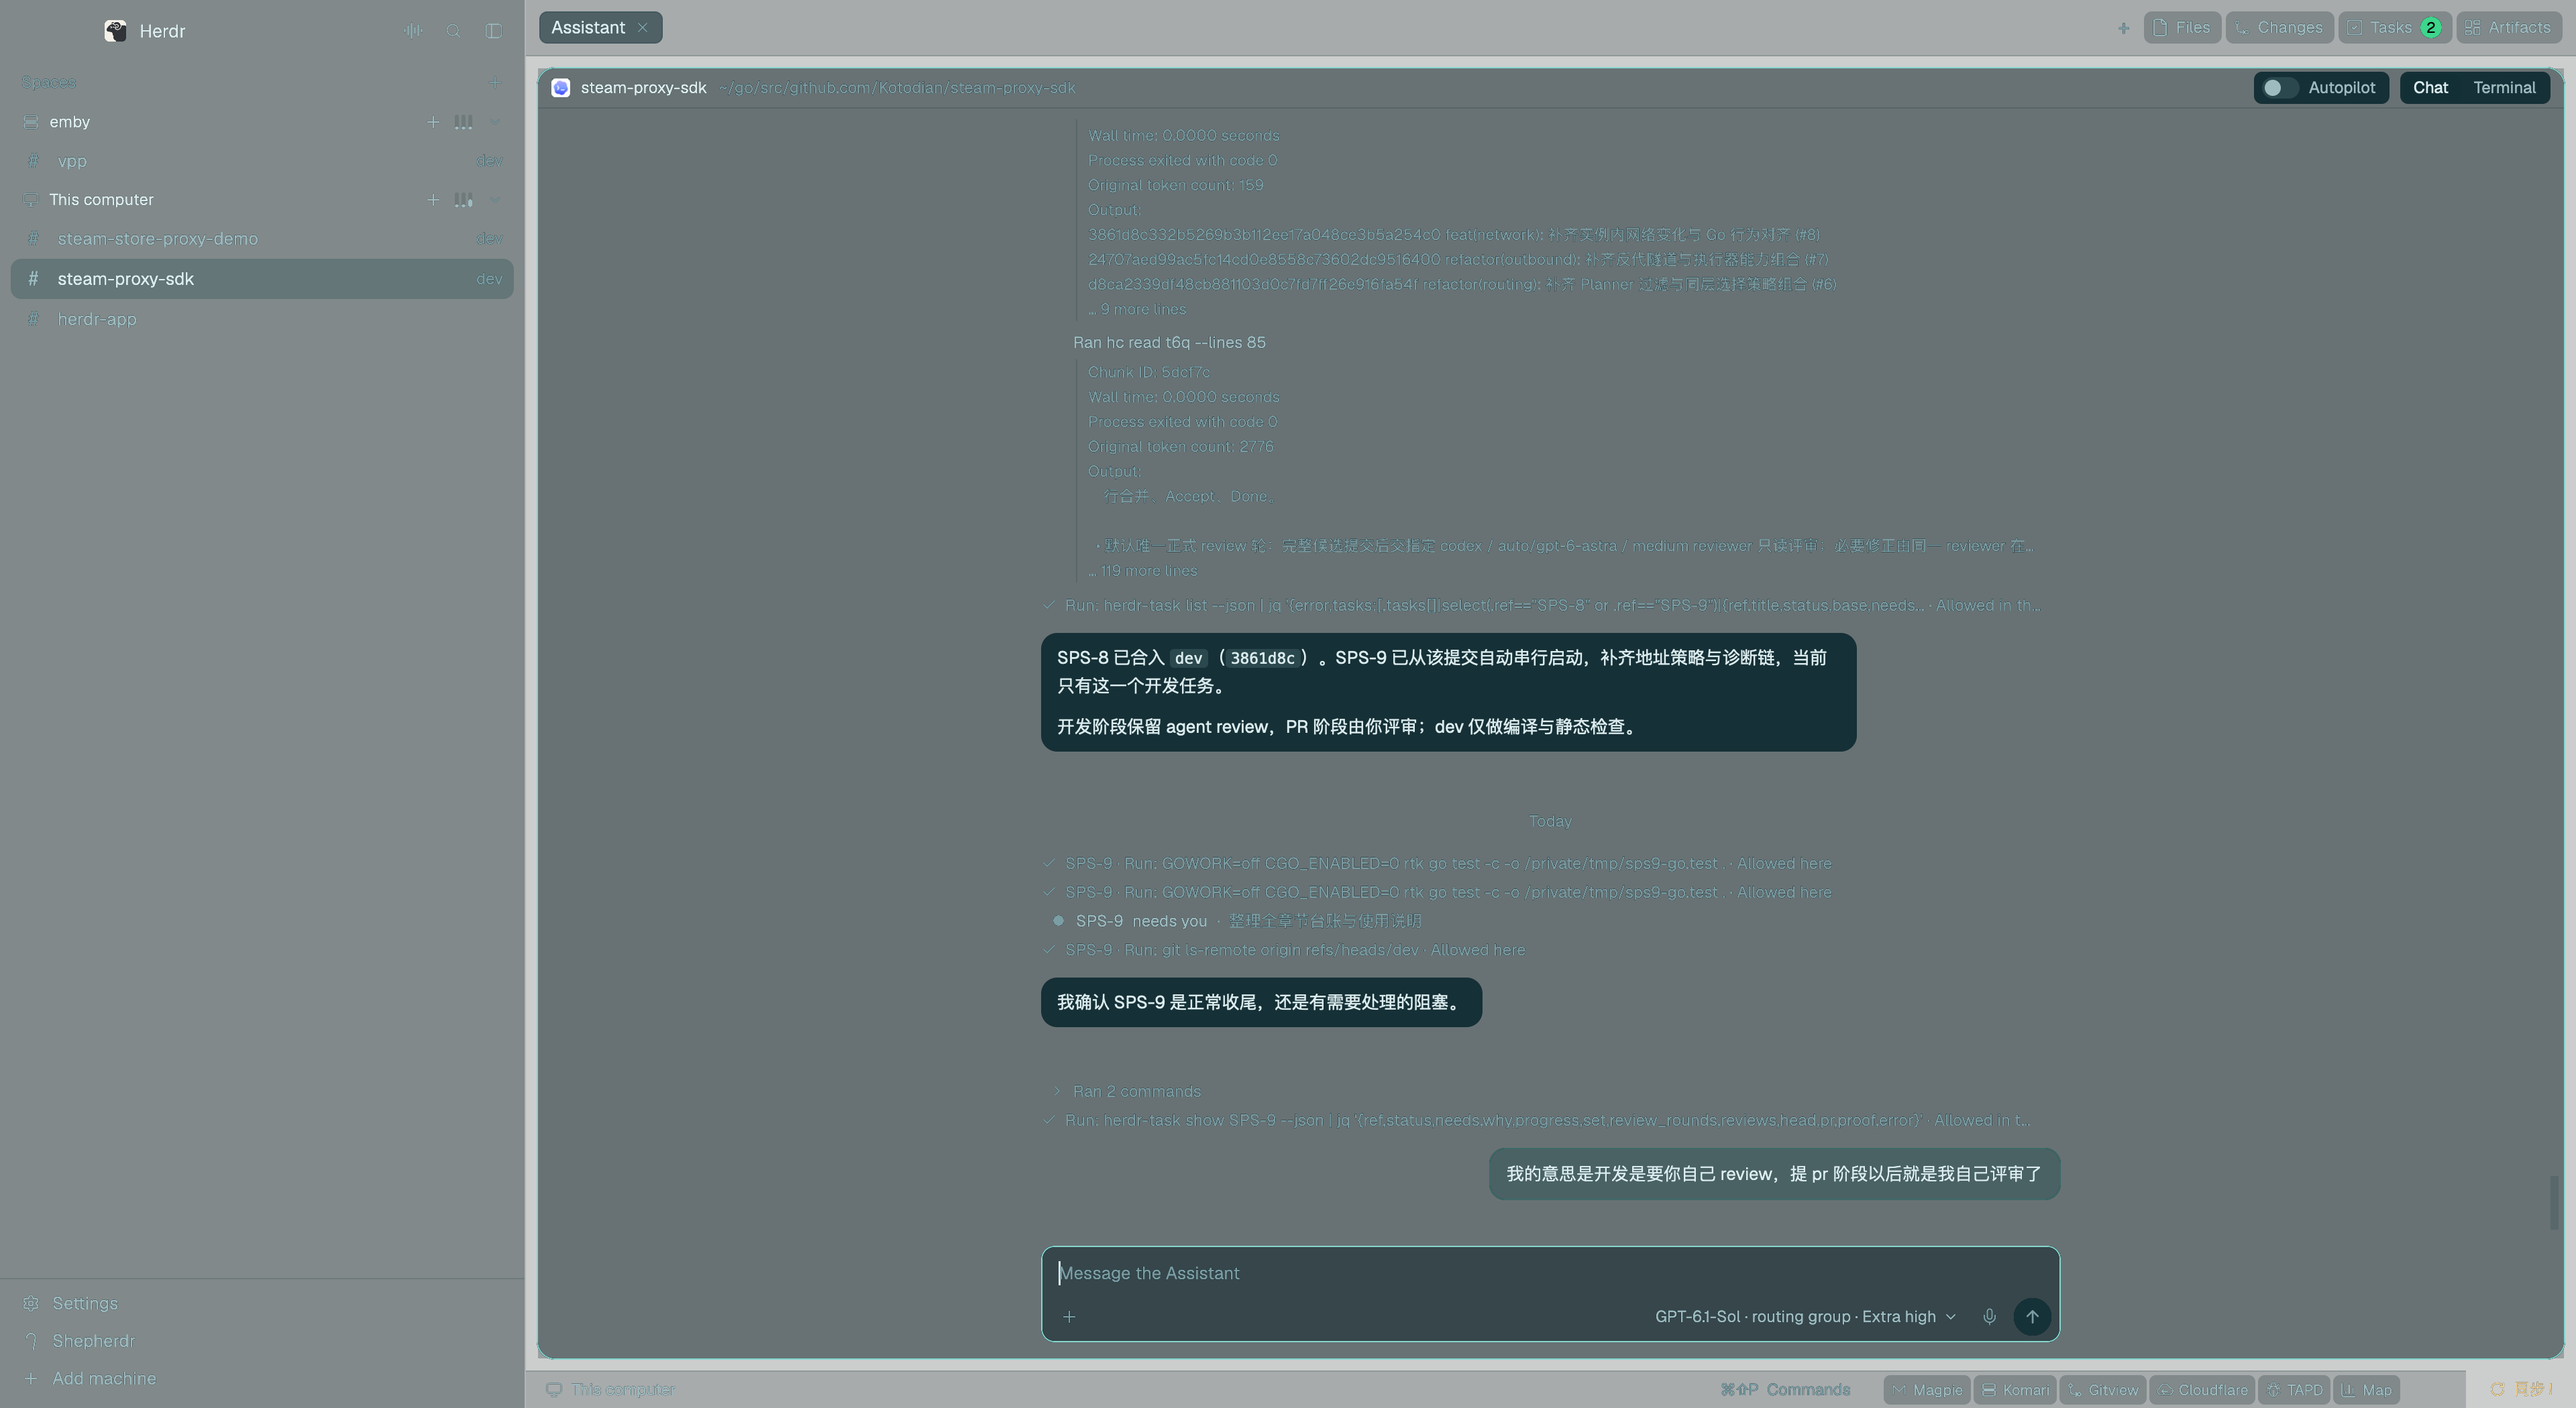
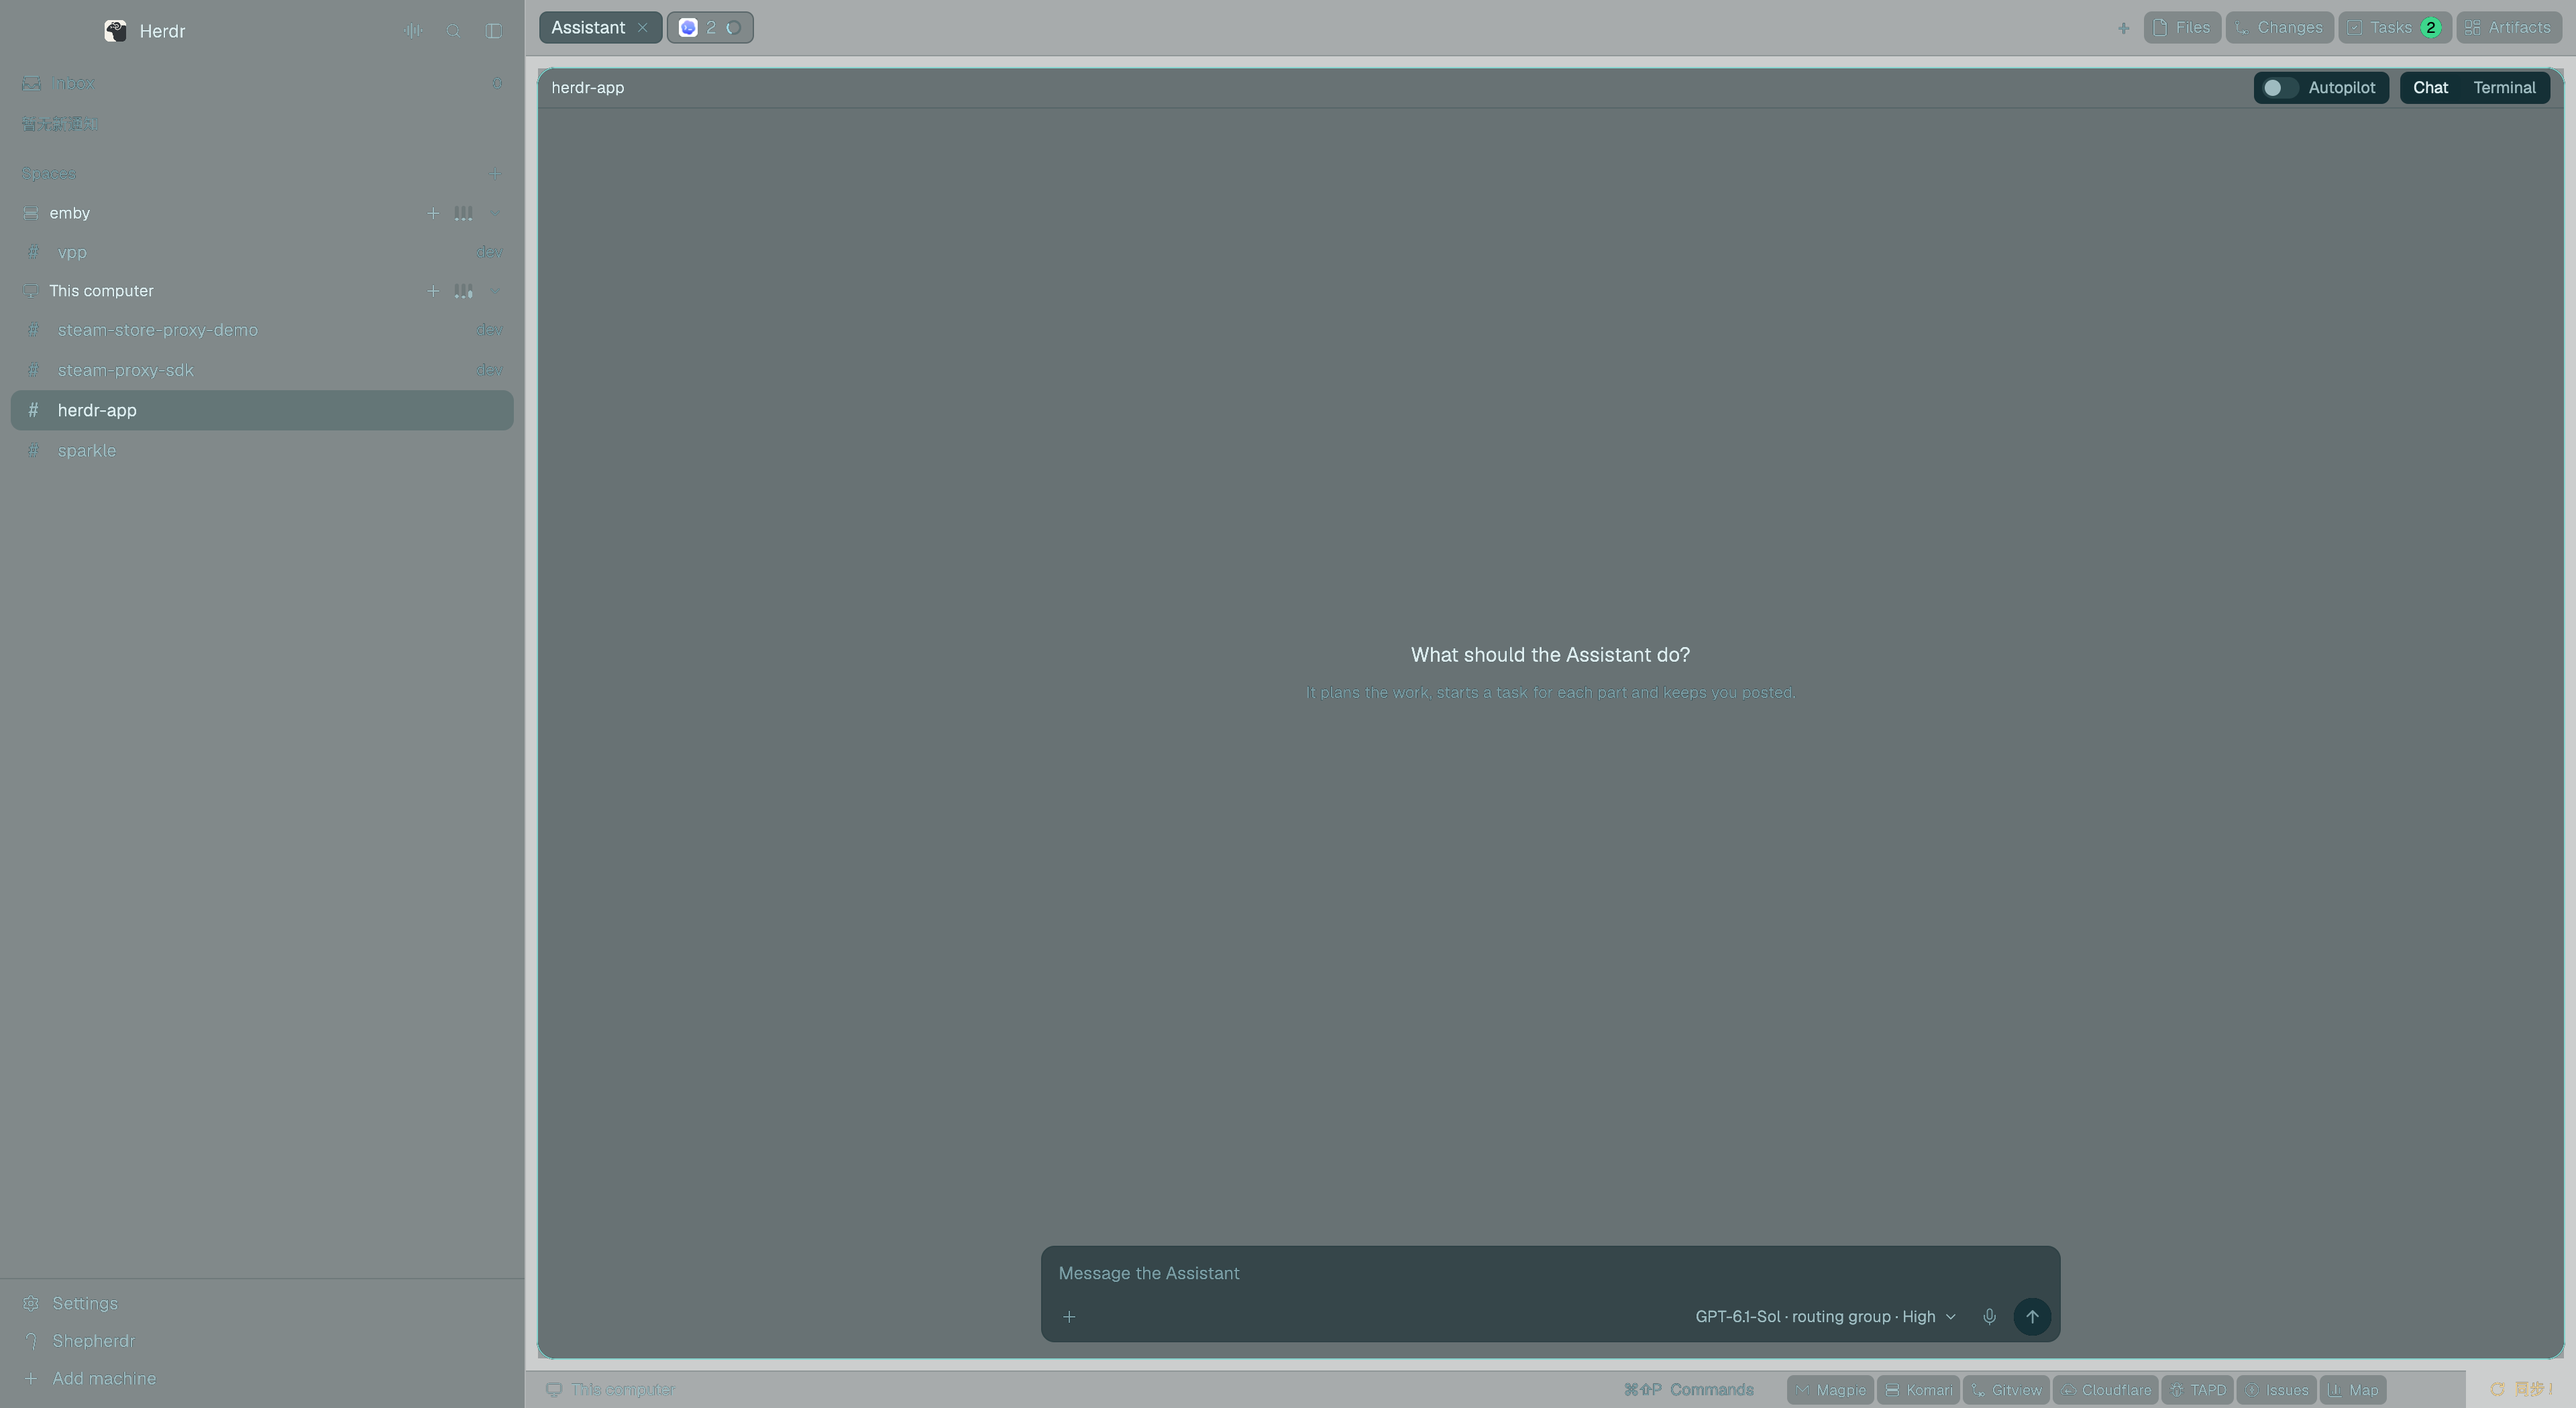
chore(herdr): 同步应用配置

diff --git a/integrations/shepherdr/mods/spaces-chat/core/session-inbox.js b/integrations/shepherdr/mods/spaces-chat/core/session-inbox.js
@@ -3,21 +3,25 @@ import { spaceOfTerminal, spaceLevel } from "./notify.js";
 
 // Sessions with something to read or handle. Derive them from the same notification
 // state as Tasks and the sidebar; no second polling engine or stored notification list.
-export function sessionInbox({ terminals = [], agents = [], spaces = [], needs = [], ready = [], seen = {}, alertRead = {}, notify = {} }) {
+export function sessionInbox({ terminals = [], agents = [], spaces = [], needs = [], ready = [], seen = {}, alertRead = {}, dismissed = {}, notify = {} }) {
   const ts = new Map(terminals.map((k) => [k.address, k]));
   const as = new Map(agents.map((a) => [a.address, a]));
   const rows = new Map();
-  const add = (address, reason, priority, at = 0, task = null) => {
+  const add = (address, reason, priority, at = 0, task = null, event = null) => {
     const k = ts.get(address), agent = as.get(address);
     const spaceId = spaceOfTerminal(k) ?? task?.space ?? agent?.space;
     const space = spaces.find((s) => s.id === spaceId);
     if (!address && !task) return;
     const key = address || `task:${task.machine ?? ""}:${task.folder}:${task.ref}`;
+    const notification = JSON.stringify([priority, reason, event === null ? at : 0,
+      event ?? (task ? [task.machine ?? null, task.folder, task.ref] : null)]);
+    if (Array.isArray(dismissed[key]) && dismissed[key].includes(notification)) return;
     const old = rows.get(key);
-    if (old && old.priority <= priority) return;
+    const notifications = [...(old?.notifications ?? []), notification];
+    if (old && old.priority <= priority) { old.notifications = notifications; return; }
     rows.set(key, { key, terminal: address || null, task, space: spaceId, tab: agent?.tab ?? task?.tab ?? null,
       title: task?.title || agent?.tab_name || k?.name || k?.title || k?.program?.name || address,
-      place: space?.name || task?.name || machineOf(address), reason, priority, at });
+      place: space?.name || task?.name || machineOf(address), reason, priority, at, notifications });
   };
   for (const x of needs) {
     const address = x.terminal || x.live?.[0];
@@ -35,11 +39,11 @@ export function sessionInbox({ terminals = [], agents = [], spaces = [], needs =
     const read = Math.max(readTurn(k, seen), seen[k.address] ?? 0);
     const status = as.get(k.address)?.status ?? k.status;
     if ((k.turn ?? 0) > read && (k.labels?.["herdr.role"] === "coordinator" || status === "done")) {
-      add(k.address, "有新回复", 2, k.status_ms ?? 0);
+      add(k.address, "有新回复", 2, k.status_ms ?? 0, null, k.turn);
     }
     let alert;
     try { alert = JSON.parse(k.labels?.["herdr.alert"] || "null"); } catch {}
-    if (alert?.id && alertRead[k.address] !== alert.id) add(k.address, String(alert.title || "有新通知"), 0, alert.at ?? 0);
+    if (alert?.id && alertRead[k.address] !== alert.id) add(k.address, String(alert.title || "有新通知"), 0, alert.at ?? 0, null, alert.id);
   }
   return [...rows.values()].sort((a, b) => a.priority - b.priority || b.at - a.at || a.key.localeCompare(b.key));
 }

diff --git a/integrations/shepherdr/mods/spaces-chat/main.js b/integrations/shepherdr/mods/spaces-chat/main.js
@@ -861,12 +861,12 @@ export default class Spaces extends View {
           .child(div().size(6).flex_none().rounded_full().bg(row.priority === 0 ? t.blocked : row.priority === 1 ? t.done : t.accent))
           .when(!collapsed, (el) => el.child(v_flex().flex_1().min_w(0).gap(2)
             .child(div().text_size(12.5).text_color(t.foreground).truncate().child(row.title))
-            .child(div().text_size(10.5).text_color(t.dim).truncate().child(`${row.place || "Session"} · ${row.reason}`)))))
-          .child(h_flex().id(`inbox-dismiss-${row.key}`).size(collapsed ? 16 : 22).flex_none().items_center().justify_center()
+            .child(div().text_size(10.5).text_color(t.dim).truncate().child(`${row.place || "Session"} · ${row.reason}`))))
+          .when(!collapsed, (el) => el.child(h_flex().id(`inbox-dismiss-${row.key}`).size(22).flex_none().items_center().justify_center()
             .rounded(4).text_color(t.dim).hover((s) => s.bg(t.hover).text_color(t.foreground))
             .on_mouse_down("left", (_e, cx) => cx.stop_propagation())
             .on_click((_e, cx) => { cx.stop_propagation(); dismiss(row); cx.notify(); })
-            .child("×")))));
+            .child("×"))))));
   }
 
   // One copy of Herdr's live lists for the whole render (live.js): past ~50 ms Herdr stops it.
